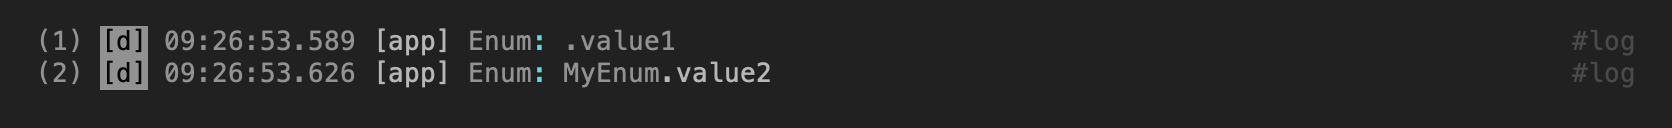
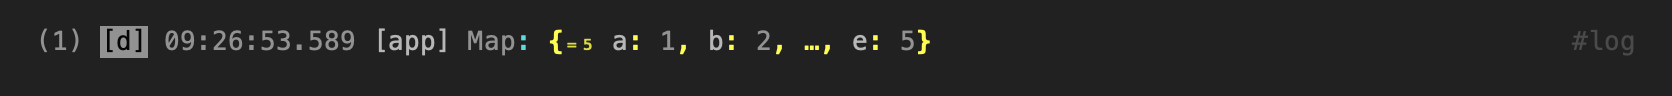
docs: address four README notes from the owner
Lazy values: the example passed data: () => buildDiagnostics() where a
tear-off does. It says data: buildDiagnostics now, with the reason on the
line, and the form was run before being written down.

Map and Iterable were shown with a // comment for output while the rest
of the README shows output as screenshots. They get frames: data_5 for
Map truncation and data_6 for an Iterable both ways — default and with
iterableEfficientLength — and the former data_5..7 shift to data_7..9.
43 frames now. The Iterable frame came out better than the comment was:
both forms sit side by side, so the difference is not something to hold
in your head.

The "belongs to your pubspec.yaml, not to this one" aside is gone: what
a reader wants there is the recipe, not dependency bookkeeping.

And "since it stopped depending on intl" told a history the reader may
never have known. It says "format reads no ambient locale" instead.

The frame count is updated in AGENTS.md and in handoff's check status.
Records in docs/records/ that say 41 are left alone — that was true when
they were written.

Claude-Session: https://claude.ai/code/session_018MEFU6GzoRqzwudmczs1Dg

Changed region(s): [[0.0, 0.1875, 0.5598, 0.7188], [0.933, 0.25, 0.9952, 0.6562]]

diff --git a/example/bin/readme_examples/data.dart b/example/bin/readme_examples/data.dart
@@ -9,9 +9,11 @@ final frames = <String, LogFrame>{
   'data_2': _deeplyNested,
   'data_3': _multiData,
   'data_4': _collections,
-  'data_5': _enums,
-  'data_6': _numbers,
-  'data_7': _strings,
+  'data_5': _map,
+  'data_6': _iterableEfficientLength,
+  'data_7': _enums,
+  'data_8': _numbers,
+  'data_9': _strings,
 };
 
 void main(List<String> args) => runFrames(frames, args);
@@ -67,6 +69,33 @@ void _collections() {
     'Iterable',
     data: [1.2, 2.3, 3.4, 4.5, 5.6].where((e) => true),
     config: const LoggableConfig(collectionMaxCount: 3),
+  );
+}
+
+/// Обрезка `Map`: те же лимиты и тот же счётчик, что у списка.
+void _map() {
+  log.d(
+    'Map',
+    data: {'a': 1, 'b': 2, 'c': 3, 'd': 4, 'e': 5},
+    config: const LoggableConfig(collectionMaxCount: 3),
+  );
+}
+
+/// Голый `Iterable`: по умолчанию один проход, с флагом — как у списка.
+void _iterableEfficientLength() {
+  log.d(
+    'Iterable',
+    data: [1.2, 2.3, 3.4, 4.5, 5.6].where((e) => true),
+    config: const LoggableConfig(collectionMaxCount: 3),
+  );
+
+  log.d(
+    'Iterable',
+    data: [1.2, 2.3, 3.4, 4.5, 5.6].where((e) => true),
+    config: const LoggableConfig(
+      collectionMaxCount: 3,
+      iterableEfficientLength: true,
+    ),
   );
 }
 

diff --git a/README.md b/README.md
@@ -1010,8 +1010,8 @@ the log gets made at all:
 ```dart
 log.d(
   () => 'Report for ${expensiveSummary()}',
-  data: () => buildDiagnostics(),
-  tags: () => collectTags(),
+  data: buildDiagnostics, // a tear-off does just as well as () => …()
+  tags: collectTags,
 );
 ```
 
@@ -1128,8 +1128,9 @@ log.d(
   data: {'a': 1, 'b': 2, 'c': 3, 'd': 4, 'e': 5},
   config: const LoggableConfig(collectionMaxCount: 3),
 );
-// Map: {₌₅ a: 1, b: 2, …, e: 5}
 ```
+
+![Map truncation](screenshots/data_5.png)
 
 The first entries and the last one survive a cut, as for a list — a map is
 ordered and can be walked twice. Two details are worth knowing when a
@@ -1159,8 +1160,9 @@ log.d(
     iterableEfficientLength: true,
   ),
 );
-// Iterable: (₌₅ ₀:1.2, ₁:2.3, …, ₄:5.6)
 ```
+
+![Iterable with an efficient length](screenshots/data_6.png)
 
 It is an assertion by the caller, like `units` — the package cannot tell an
 efficient-length iterable from a generator, and setting it on one that is
@@ -1185,14 +1187,13 @@ log.d(
 );
 ```
 
-![Formatting settings. Enum](screenshots/data_5.png)
+![Formatting settings. Enum](screenshots/data_7.png)
 
 Numbers take a formatting pattern, but the package does not interpret it:
 `intFormat`/`doubleFormat` are handed to the theme's `numberFormatter`
 along with the value, and a theme without one prints the number as it is.
 Install a formatter to make patterns work — for example over the
-[format](https://pub.dev/packages/format) package, which then belongs to
-your `pubspec.yaml`, not to this one:
+[format](https://pub.dev/packages/format) package:
 
 ```dart
 final theme = LogMainTheme.defaultActiveTheme.copyWith(
@@ -1218,15 +1219,15 @@ log.d(
 );
 ```
 
-![Formatting settings. Numbers](screenshots/data_6.png)
+![Formatting settings. Numbers](screenshots/data_8.png)
 
 The pattern means whatever the installed formatter says it means — the one
 above is a `format` template, and
 `(theme, value, pattern) => sprintf(pattern, [value])` would make `'%d'` the
 way to write it instead. With `format` the locale rules are its own: `,` and
-`_` group under every locale, `n` is the locale-aware form, and since it
-stopped depending on `intl` it reads no ambient locale — `n` follows the C
-locale and `Intl.defaultLocale` changes nothing. `'{:,n}'` throws there,
+`_` group under every locale, `n` is the locale-aware form, and `format`
+reads no ambient locale — `n` follows the C locale and `Intl.defaultLocale`
+changes nothing. `'{:,n}'` throws there,
 because `n` takes no grouping option.
 
 String can be displayed with or without quotation marks:
@@ -1244,7 +1245,7 @@ log.d(
 );
 ```
 
-![Formatting settings. Strings](screenshots/data_7.png)
+![Formatting settings. Strings](screenshots/data_9.png)
 
 #### Application-wide Defaults and Policy
 

diff --git a/docs/backlog.md b/docs/backlog.md
@@ -6,14 +6,3 @@
 
 - Возможность добавлять собственные уровни и собственные функции
   логирования.
-- В примере для "Lazy Messages and Data", кажется, стоит добавить, что именноё
-  для этого примера можно указать: data: buildDiagnostics, tags: collectTags.
-  Возможно, достаточно это сделать комментарием на самой строке.
-- README: про Map и Iterable ты напечатал результат в виде
-  // Map: {₌₅ a: 1, b: 2, …, e: 5}
-  Но везде вывод идёт через картинки.
-- README: В строке "Install a formatter to make patterns work" нужно ли писать
-  про pubspec.yaml?
-- README: "`n` is the locale-aware form, and since it stopped depending on
-  `intl`". Зачем писать, что перестал зависеть. Пользователь может об этом
-  ничего не знать. Стоит написать, что "не зависит".

diff --git a/AGENTS.md b/AGENTS.md
@@ -174,7 +174,7 @@ scripts/screenshots.sh --only trace    # одну группу
 scripts/screenshots.sh --check         # сверить .ansi, ничего не писать
 ```
 
-Переведены все восемь групп — 41 кадр. Вне конвейера остаётся только
+Переведены все восемь групп — 43 кадра. Вне конвейера остаётся только
 `screenshots/flutter_team_logger.png`: это снимок Flutter-приложения, а не
 ANSI-вывода, и скрипт знает про него как про исключение.
 `scripts/ansi_screenshot.sh` остаётся под скриптом выше и для ручных

diff --git a/docs/handoff.md b/docs/handoff.md
@@ -193,7 +193,7 @@ cd example && dart pub get && dart analyze && dart run example.dart
 - `dart format` — чисто.
 - Финальный чистый `dart pub publish --dry-run` — **0 предупреждений**,
   архив 196 КБ.
-- `scripts/screenshots.sh --check` — код 0: 41 кадр, ни одного `skip:`,
+- `scripts/screenshots.sh --check` — код 0: 43 кадра, ни одного `skip:`,
   сирот нет; повторная пересборка не меняет ни одного файла.
 - На настоящем Dart 3.6 (SDK внутри fvm-сборки Flutter 3.27) — `analyze`
   чист, 503 теста зелёные. **Замерено 2026-08-21 и с тех пор не
